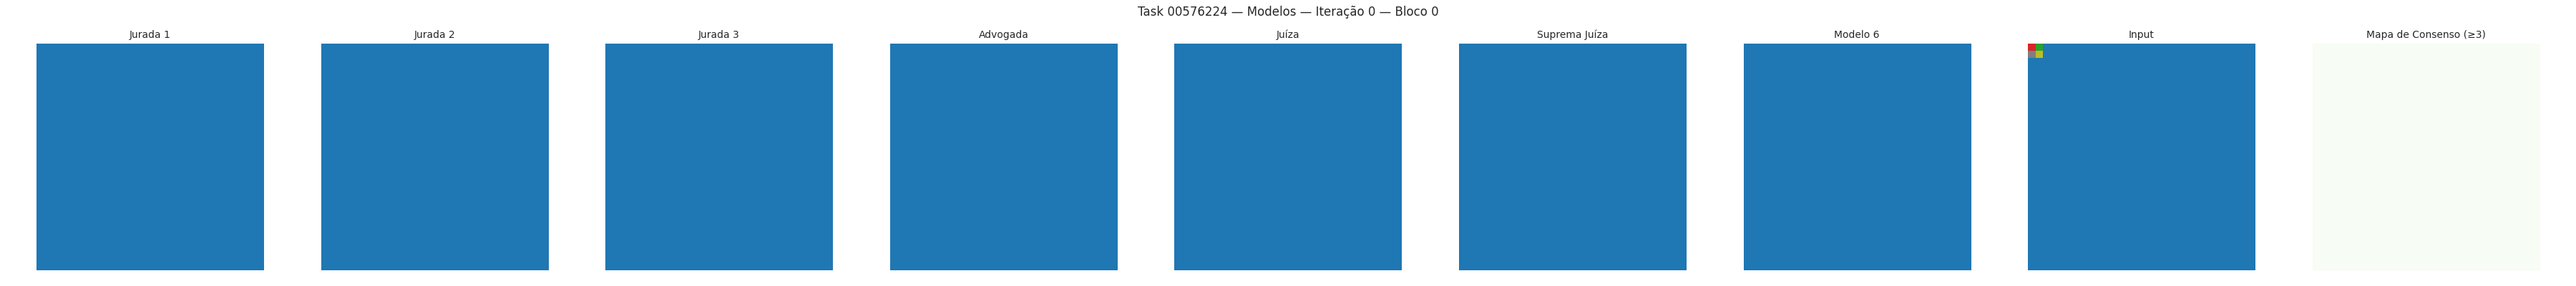
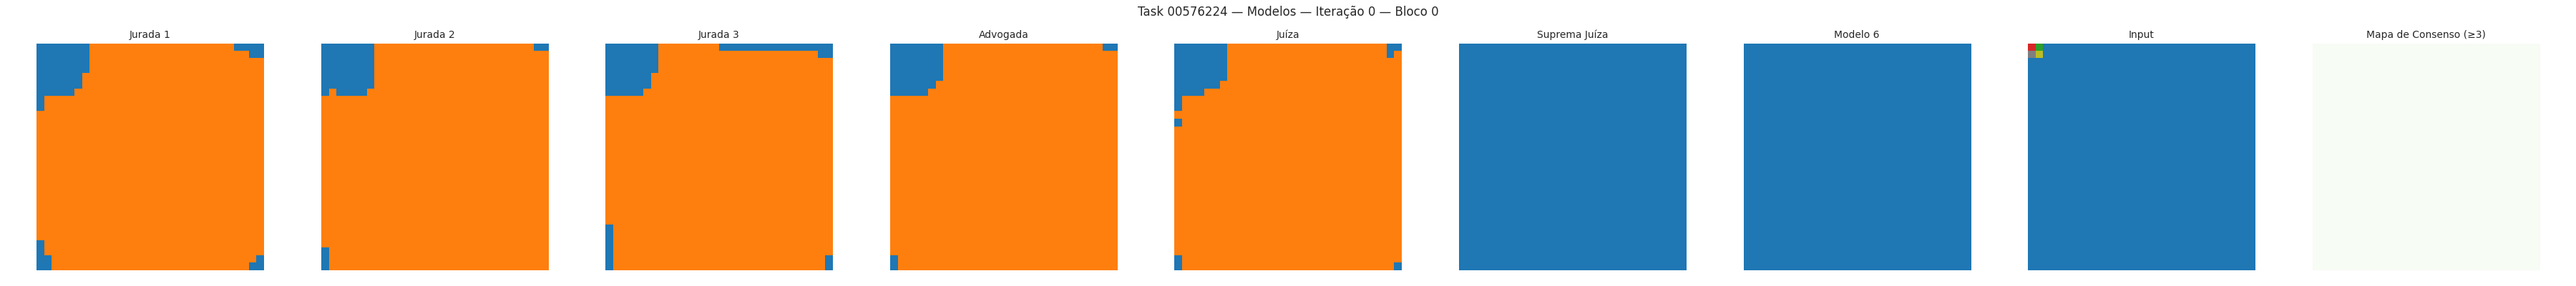
comit

diff --git a/metrics_utils.py b/metrics_utils.py
@@ -97,9 +97,9 @@ def preparar_voto_para_visualizacao(v):
         if v.ndim == 5:
             v = v[0]
         if v.ndim == 4:
-            v = extrair_matriz_simbolica(v, eixo=-1)
+            v = extrair_matriz_simbolica(v)
         elif v.ndim == 3 and v.shape[-1] == 1:
-            v = extrair_matriz_simbolica(v, eixo=-1)
+            v = extrair_matriz_simbolica(v)
         elif v.ndim == 3:
             v = v[:, :, 0]
         return np.squeeze(v)
@@ -108,12 +108,14 @@ def preparar_voto_para_visualizacao(v):
         return np.zeros((30, 30))
 
 
-
 def salvar_voto_visual(votos, iteracao, block_idx, input_tensor_outros, idx=0, task_id=None, saida_dir="debug_plots"):
     try:
-      
+        import matplotlib.pyplot as plt
+        import seaborn as sns
+        import os
         os.makedirs(saida_dir, exist_ok=True)
 
+        from metrics_utils import extrair_matriz_simbolica
 
         prefixo = f"{task_id}_" if task_id else ""
         fname = f"{prefixo}{block_idx} - votos_iter_{iteracao:02d}.png"
@@ -122,53 +124,62 @@ def salvar_voto_visual(votos, iteracao, block_idx, input_tensor_outros, idx=0, t
         votos_classes = []
         for i, v in enumerate(votos):
             if v is None:
+                log(f"[VISUAL] ⚠ Voto modelo_{i} é None. Ignorado.")
                 continue
             try:
                 if isinstance(v, tf.Tensor):
                     v = v.numpy()
+
                 if v.ndim == 5:
                     v = v[0]
-                if v.ndim == 4 or (v.ndim == 3 and v.shape[-1] == 10):
-                    v_cls = extrair_matriz_simbolica(v)
-                else:
-                    v_cls = np.squeeze(v)
+                if v.ndim == 4:
+                    v = v[:, :, 0, :]
+                elif v.ndim == 3 and v.shape[-1] == 1:
+                    v = np.squeeze(v, axis=-1)
 
-                log(f"[VISUAL DEBUG] modelo_{i}: únicos = {np.unique(v_cls)}")
+                if v.ndim == 3:
+                    v_cls = extrair_matriz_simbolica(v)
+                elif v.ndim == 2:
+                    v_cls = v.astype(np.int32)
+                else:
+                    raise ValueError(f"[VISUAL] Formato de voto não suportado: {v.shape}")
+
+                log(f"[VISUAL DEBUG] modelo_{i}: únicos = {np.unique(v_cls)} shape={v_cls.shape}")
                 votos_classes.append(v_cls)
             except Exception as e:
                 log(f"[VISUAL] Erro ao preparar voto do modelo_{i}: {e}")
 
         if not votos_classes:
-            log("[VISUAL] Nenhuma predição válida para visualização.")
-            # fallback igual ao anterior (entropia ou texto)
+            log("[VISUAL] ❌ Nenhuma predição válida para visualização.")
             return
 
-        # Prepara visualização do input
         try:
             input_vis = input_tensor_outros
             if isinstance(input_vis, tf.Tensor):
                 input_vis = input_vis.numpy()
-            if input_vis.ndim == 5:
-                input_vis = tf.argmax(input_vis[0], axis=-1).numpy()
-            elif input_vis.ndim == 4:
-                if input_vis.shape[-1] == 1:
-                    input_vis = input_vis[0, :, :, 0]
-                else:
-                    input_vis = input_vis[0, :, :, 0]
-            elif input_vis.ndim == 3 and input_vis.shape[-1] > 1:
-                input_vis = input_vis[..., 0]
 
-            input_vis = np.squeeze(input_vis)
+            if input_vis.ndim == 5:
+                input_vis = input_vis[0]
+            if input_vis.ndim == 4:
+                input_vis = input_vis[:, :, 0, :]
+            elif input_vis.ndim == 3 and input_vis.shape[-1] == 1:
+                input_vis = np.squeeze(input_vis, axis=-1)
+
+            if input_vis.ndim == 3:
+                input_vis = extrair_matriz_simbolica(input_vis)
+            elif input_vis.ndim == 2:
+                input_vis = input_vis.astype(np.int32)
+            else:
+                input_vis = np.zeros((30, 30))
+
             if input_vis.size != 900:
                 log(f"[VISUAL] ⚠ input_vis com {input_vis.size} elementos. Substituindo por zeros.")
                 input_vis = np.zeros((30, 30))
-            else:
-                input_vis = input_vis.reshape((30, 30))
+
         except Exception as e:
             log(f"[VISUAL] Erro ao preparar input_vis: {e}")
             input_vis = np.zeros((30, 30))
 
-        # Mapa de consenso
         votos_stack = np.stack(votos_classes, axis=0)
         consenso_map = np.zeros((30, 30), dtype=np.uint8)
         for i in range(30):
@@ -177,7 +188,6 @@ def salvar_voto_visual(votos, iteracao, block_idx, input_tensor_outros, idx=0, t
                 if np.max(counts) >= 3:
                     consenso_map[i, j] = 1
 
-        # Plot
         num_modelos = len(votos_classes)
         fig, axes = plt.subplots(1, num_modelos + 2, figsize=(4 * (num_modelos + 2), 4))
 
@@ -204,10 +214,11 @@ def salvar_voto_visual(votos, iteracao, block_idx, input_tensor_outros, idx=0, t
         plt.tight_layout()
         plt.savefig(filepath)
         plt.close()
-        log(f"[VISUAL] Salvo mapa de votos + consenso em {filepath}")
+        log(f"[VISUAL] ✅ Mapa de votos + consenso salvo em {filepath}")
 
     except Exception as e:
-        log(f"[ERROR] Falha ao gerar visualização de votos: {e}")
+        log(f"[ERROR] ❌ Falha ao gerar visualização de votos: {e}")
+
 
 
 

diff --git a/data_loader.py b/data_loader.py
@@ -40,16 +40,18 @@ def load_data(block_index, task_ids, challenges, block_size, pad_value, vocab_si
             log(f"[WARN] Grid maior que 30x30: {max_h}x{max_w} — pulando")
             continue
         
-        if model_idx >= 4:
-            X.append(add_judge_channel(input_grid, juizo_value=0, channel_value=10, confidence_value=40))
-            X_test.append(add_judge_channel(test_input_grid, juizo_value=0, channel_value=10, confidence_value=40))
-            Y.append(add_judge_channel(output_grid, juizo_value=1, channel_value=10, confidence_value=40))
-        else:
-            X.append(add_judge_channel(input_grid, juizo_value=0, channel_value=10, confidence_value=4))
-            X_test.append(add_judge_channel(test_input_grid, juizo_value=0, channel_value=10, confidence_value=4))
-            Y.append(add_judge_channel(output_grid, juizo_value=1, channel_value=10, confidence_value=4))
+        # if model_idx >= 4:
+        X.append(add_judge_channel(input_grid, juizo_value=0, channel_value=10, confidence_value=40))
+        X_test.append(add_judge_channel(test_input_grid, juizo_value=0, channel_value=10, confidence_value=40))
+        Y.append(add_judge_channel(output_grid, juizo_value=1, channel_value=10, confidence_value=40))
+        # else:
+        #     X.append(add_judge_channel(input_grid, juizo_value=0, channel_value=10, confidence_value=40))
+        #     X_test.append(add_judge_channel(test_input_grid, juizo_value=0, channel_value=10, confidence_value=40))
+        #     Y.append(add_judge_channel(output_grid, juizo_value=1, channel_value=10, confidence_value=40))
+        log(f"[DEBUG] SHAPE após add_judge_channel: {X[-1].shape}")
 
         info.append({"task_id": task_id})
+
 
     X, Y = standardize_grid_shapes(X, Y)
     X, Y = pad_to_30x30_top_left(X, Y)
@@ -82,6 +84,7 @@ def load_data(block_index, task_ids, challenges, block_size, pad_value, vocab_si
     
     sw_train = np.ones_like(Y_train[..., 0], dtype=np.float32)
     sw_val = np.ones_like(Y_val[..., 0], dtype=np.float32)
+    log(f"[DEBUG] X_TRAIN SHAPE FINAL : {X_train.shape}")
 
     return (
         tf.convert_to_tensor(X_train, dtype=tf.float32),

diff --git a/confidence_system.py b/confidence_system.py
@@ -46,6 +46,8 @@ def avaliar_consenso_ponderado(votos_models: dict, pesos: dict, required_score=5
     Avalia consenso ponderado usando pesos hierárquicos definidos para cada modelo.
     Cada pixel é decidido com base na soma dos pesos dos modelos que concordam naquele ponto.
     """
+    import tensorflow as tf
+
     votos_stacked = []
     votos_dict = {}
     pesos_usados = []
@@ -54,16 +56,22 @@ def avaliar_consenso_ponderado(votos_models: dict, pesos: dict, required_score=5
         try:
             v = tf.convert_to_tensor(voto)
 
+            # Remove canais extras com argmax, se for o caso
             if v.shape.rank >= 4 and v.shape[-1] > 1:
                 v = tf.argmax(v, axis=-1)
             if v.shape.rank == 4 and v.shape[-1] == 1:
                 v = tf.squeeze(v, axis=-1)
+
+            # Remove dimensão de batch se presente
+            if v.shape.rank == 3 and v.shape[0] == 1:
+                v = tf.squeeze(v, axis=0)
+
             v = tf.cast(v, tf.int64)
 
             if voto_reverso_ok and name in voto_reverso_ok:
                 v = 9 - v
 
-            if tf.size(v) != 9000:
+            if tf.size(v) != 900:
                 log(f"[CONSENSO] ⚠ Voto {name} tem {tf.size(v).numpy()} elementos. Ignorado.")
                 continue
 
@@ -100,8 +108,9 @@ def avaliar_consenso_ponderado(votos_models: dict, pesos: dict, required_score=5
         for j in range(30):
             valores_pixel = votos_stacked_tensor[:, i, j]  # (N,)
             pesos_pixel = tf.zeros_like(pesos_tensor)
+            valor_referencia = valores_pixel[0]
             for idx, valor in enumerate(valores_pixel):
-                if tf.reduce_all(valor == valores_pixel):
+                if valor == valor_referencia:
                     pesos_pixel = tf.tensor_scatter_nd_update(pesos_pixel, [[idx]], [pesos_tensor[idx]])
             soma_pesos = tf.reduce_sum(pesos_pixel).numpy()
             if soma_pesos >= required_score:

diff --git a/models_loader.py b/models_loader.py
@@ -1,7 +1,7 @@
 import tensorflow as tf
 from model_compile import compile_model
 from SimuV1 import SimuV1
-
+from runtime_utils import log
 
 # Configurações de cada modelo: classe e hidden_dim
 MODEL_CONFIGS = {
@@ -27,9 +27,10 @@ def load_model(index, learning_rate):
     model = model_class(hidden_dim=hidden_dim)
     model = compile_model(model, lr=learning_rate)
 
-    dummy_shape = (1, 30, 30, 10, 40) if index >= 4 else (1, 30, 30, 10, 4)
+    dummy_shape = (1, 30, 30, 10, 40) #if index >= 4 else (1, 30, 30, 10, 4)
     dummy_input = tf.zeros(dummy_shape, dtype=tf.float32)
     _ = model(dummy_input, training=False)
-
+    log(f"[DEBUG] Criado modelo {index} com input dummy shape: {dummy_shape}")
+    _model_cache.clear()
     _model_cache[index] = model
     return model

diff --git a/train_all.py b/train_all.py
@@ -68,12 +68,12 @@ def training_process(
 
     _ = model(X_train, training=False)
     # Y_train = tf.argmax(Y_train, axis=-1)
-    if n_model in [0, 1, 2, 3, 4]:
-        if Y_train.shape[-1] == 40:  # se estiver one-hot
-            Y_train = tf.argmax(Y_train, axis=-1)  # -> (batch, 30, 30, 10)
+    # if n_model in [0, 1, 2, 3, 4]:
+    #     if Y_train.shape[-1] == 40:  # se estiver one-hot
+    #         Y_train = tf.argmax(Y_train, axis=-1)  # -> (batch, 30, 30, 10)
 
-        if Y_val.shape[-1] == 40:
-            Y_val = tf.argmax(Y_val, axis=-1)
+    if Y_val.shape[-1] == 40:
+        Y_val = tf.argmax(Y_val, axis=-1)
     for cycle in range(cycles):
         log(f"Cycle {cycle} — Modelo {n_model}")
         model.fit(

diff --git a/metrics.py b/metrics.py
@@ -3,7 +3,7 @@ import tensorflow as tf
 from runtime_utils import log
 
 JUDGE = 40
-OTHERS = 4
+OTHERS = 40
 CHANNELS = 10
 
 
